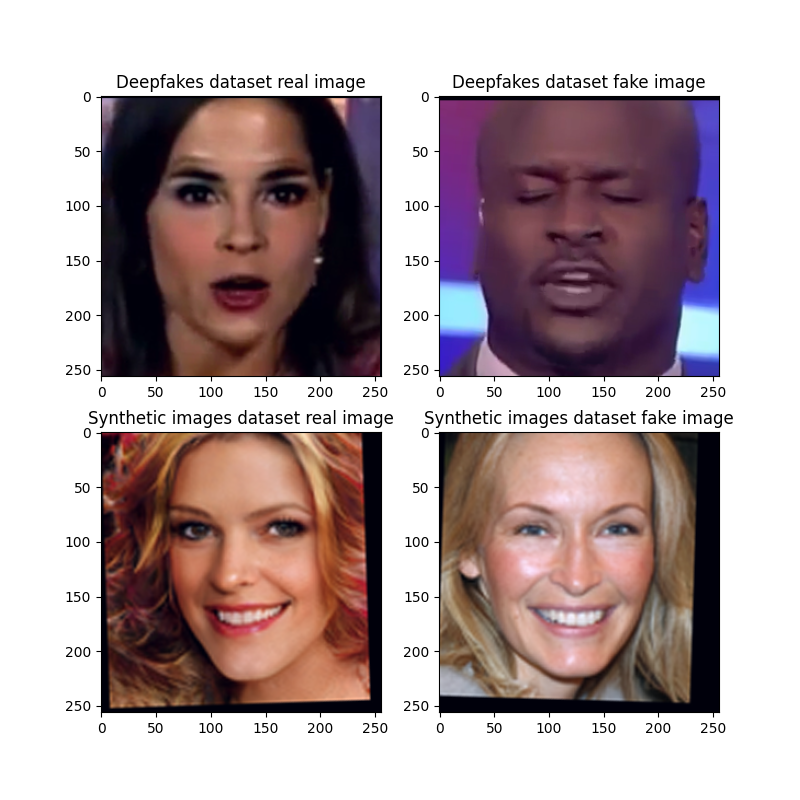
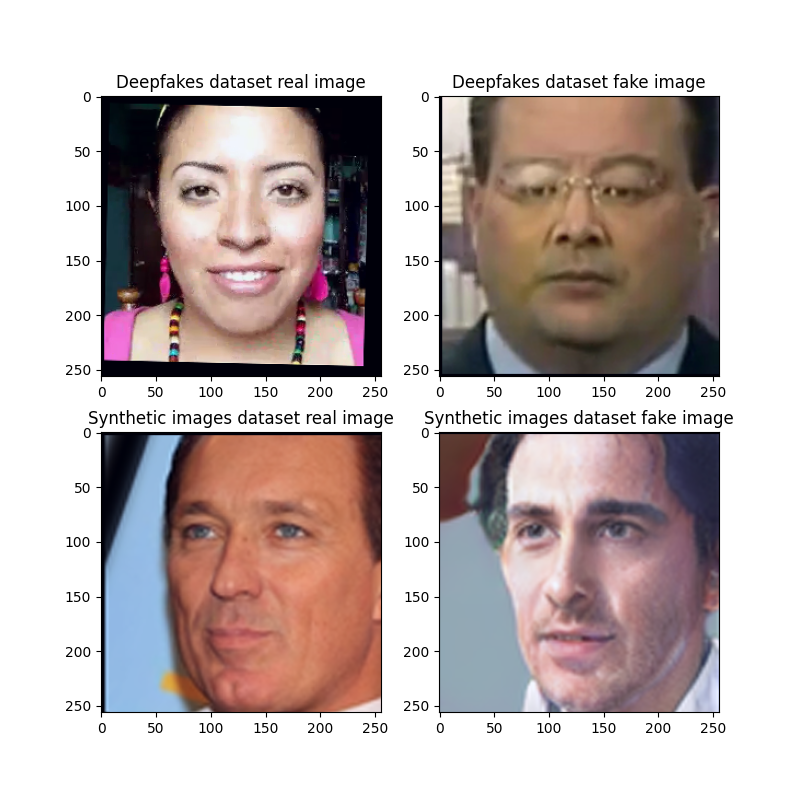
faces_dataset fixed and plot_samples_of_faces_data script changed (had some bugs)

diff --git a/solution/faces_dataset.py b/solution/faces_dataset.py
@@ -30,11 +30,11 @@ class FacesDataset(Dataset):
         self.root_path = root_path
         self.real_image_names = os.listdir(os.path.join(self.root_path, 'real'))        
         self.fake_image_names = os.listdir(os.path.join(self.root_path, 'fake'))
-        self._real_image_size = len(self.real_image_names)
-        self._fake_image_size = len(self.fake_image_names)
+        self.real_image_size = len(self.real_image_names)
+        self.fake_image_size = len(self.fake_image_names)
         self._images = self.fake_image_names + self.real_image_names               
-        self._dataset = list(zip(self._images, [FAKE_LABEL] * self._fake_image_size + [REAL_LABEL] * self._real_image_size))
-        self._dataset_len = len(self._dataset)                        
+        self._dataset = list(zip(self._images, [FAKE_LABEL] * self.fake_image_size + [REAL_LABEL] * self.real_image_size))        
+        self.dataset_len = len(self._dataset)                          
         self.transform = transform
 
     def __getitem__(self, index) -> tuple[torch.Tensor, int]:
@@ -47,10 +47,10 @@ class FacesDataset(Dataset):
             img_path = os.path.join(self.root_path, REAL_DIRECTORY, img_name)        
         with Image.open(img_path) as im:
                 if self.transform:
-                    sample = self.transform(im)
+                    sample = self.transform(im)        
         return (sample, img_label)
                      
 
     def __len__(self):
         """Return the number of images in the dataset."""        
-        return self._dataset_len        
+        return self.dataset_len        

diff --git a/solution/trainer.py b/solution/trainer.py
@@ -59,8 +59,7 @@ class Trainer:
                                       shuffle=True)
         print_every = int(len(train_dataloader) / 10)
 
-        for batch_idx, (inputs, targets) in enumerate(train_dataloader):
-            """INSERT YOUR CODE HERE."""
+        for batch_idx, (inputs, targets) in enumerate(train_dataloader):            
             #Move inputs and targets to GPU if available
             inputs = inputs.to(device)
             targets = targets.to(device)
@@ -78,8 +77,12 @@ class Trainer:
             with torch.no_grad():
                 nof_samples = len(inputs) * (batch_idx + 1)
                 total_loss += loss
-                avg_loss = total_loss / nof_samples
+                avg_loss = total_loss / (batch_idx + 1)
+                print(outputs)
+                print(f'max is: {outputs.argmax(1)}')
+                print(f'targets are: {targets}')
                 correct_labeled_samples += (outputs.argmax(1) == targets).type(torch.float).sum().item()
+                print(correct_labeled_samples)
                 accuracy = (correct_labeled_samples/ nof_samples) * 100
             #print once in a while to see progress...
             if batch_idx % print_every == 0 or \
@@ -87,7 +90,7 @@ class Trainer:
                 print(f'Epoch [{self.epoch:03d}] | Loss: {avg_loss:.3f} | '
                       f'Acc: {accuracy:.2f}[%] '
                       f'({correct_labeled_samples}/{nof_samples})')
-
+                
         return avg_loss, accuracy
 
     def evaluate_model_on_dataloader(

diff --git a/solution/plot_samples_of_faces_datasets.py b/solution/plot_samples_of_faces_datasets.py
@@ -18,9 +18,9 @@ def main():
     # create deepfakes dataset
     fakes_dataset_train = load_dataset('fakes_dataset', 'train')
     # sample indices of real and fake images
-    real_image_idx = random.choice(range(int(len(fakes_dataset_train) / 2)))
-    fake_image_idx = random.choice(range(int(len(fakes_dataset_train) / 2),
-                                         len(fakes_dataset_train)))
+    fakes_fake_size = fakes_dataset_train.fake_image_size        
+    fake_image_idx = random.choice(range(0, fakes_fake_size))
+    real_image_idx = random.choice(range(fakes_fake_size + 1, fakes_dataset_train.dataset_len))    
     images_samples = plt.figure()
     plt.subplot(2, 2, 1)
     plt.imshow(normalize(
@@ -33,10 +33,9 @@ def main():
 
     # create synthetic faces dataset
     synthetic_dataset_train = load_dataset('synthetic_dataset', 'train')
-
-    real_image_idx = random.choice(range(int(len(synthetic_dataset_train) / 2)))
-    fake_image_idx = random.choice(range(int(len(synthetic_dataset_train) / 2),
-                                         len(synthetic_dataset_train)))
+    syntetihc_fake_size = synthetic_dataset_train.fake_image_size     
+    fake_image_idx = random.choice(range(0, syntetihc_fake_size))
+    real_image_idx = random.choice(range(syntetihc_fake_size + 1, synthetic_dataset_train.dataset_len))
     plt.subplot(2, 2, 3)
     plt.imshow(normalize(
         synthetic_dataset_train[real_image_idx][0]).permute(1, 2, 0))
